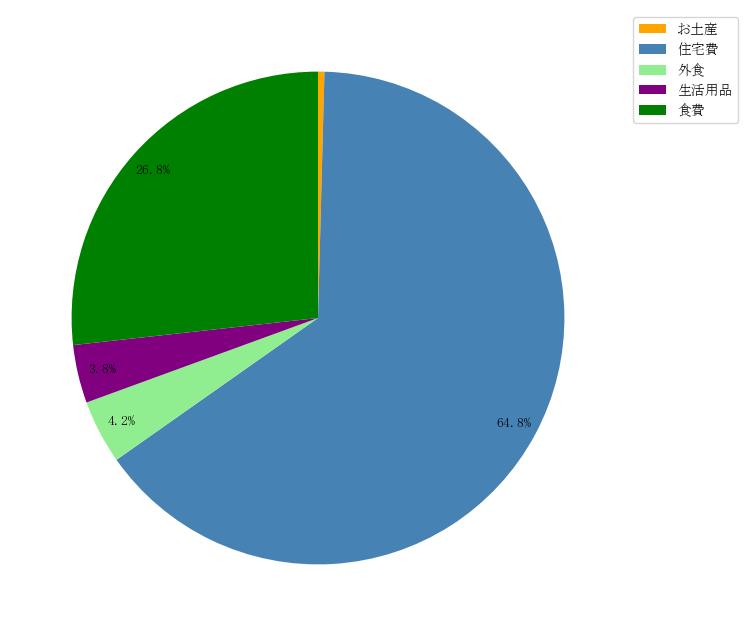
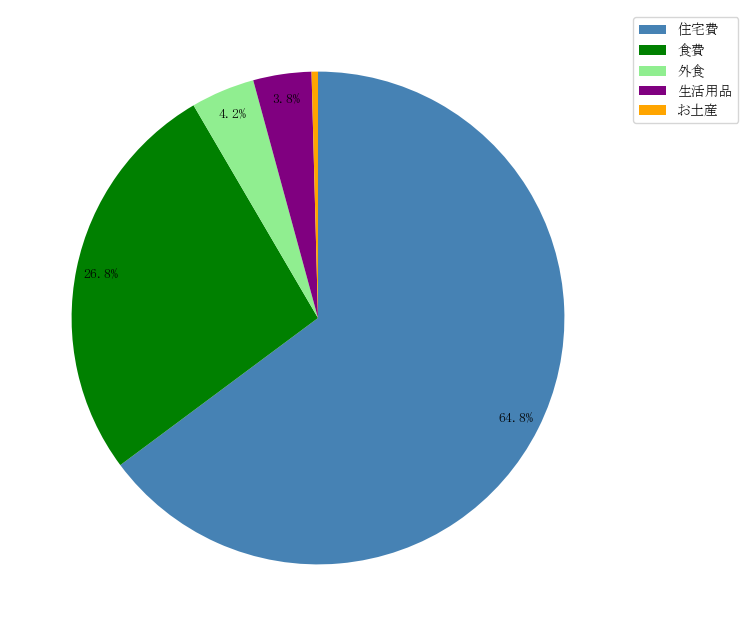
カテゴリーとユーザーのスライサーを追加

diff --git a/templates/analysis.html b/templates/analysis.html
@@ -33,14 +33,30 @@
                 </option>
                 {% endfor %}
             </select>
+            <label for="category">分類を選択：</label>
+            <select name="category" id="category" onchange="this.form.submit()">
+                {% set categories = ['all' , '食費', '外食', '生活用品', '住宅費', 'お土産', 'コインランドリー', 'レジャー'] %}
+                {% for cat in categories %}
+                <option value="{{ cat }}" {% if cat == selected_category %}selected{% endif %}>{{ cat if cat != 'all' else 'すべて' }}</option>
+                {% endfor %}
+            </select>
+            <label for="user">ユーザーを選択：</label>
+            <select name="user" id="user" onchange="this.form.submit()">
+                {% set users = ['all' , 'タクミ', 'ミナヨ'] %}
+                {% for u in users %}
+                <option value="{{ u }}" {% if u == selected_user %}selected{% endif %}>{{ u if u != 'all' else 'すべて' }}</option>
+                {% endfor %}
+            </select>
         </form>
         <div class="graph_container">
             <table border="1">
                 <tr>
-                    <th>分類別各月の支出金額</th>
-                    <th>分類別年間の支出割合</th>
+                    <th>分析方法</th>
+                    <th>月毎の支出金額推移</th>
+                    <th>年間の支出割合</th>
                 </tr>
                 <tr>
+                    <td class="analysis_label">カテゴリー別</td>
                     <td>
                         {% if graph_url %}
                             <img src="{{ graph_url }}" alt="分類別各月の支出金額">
@@ -57,15 +73,16 @@
                     </td>
                 </tr>
                 <tr>
+                    <td class="analysis_label">ユーザー別</td>
                     <td>
-                        {% if graph_url %}
+                        {% if graph_user_url %}
                             <img src="{{ graph_user_url }}" alt="分類別各月の支出金額">
                         {% else %}
                             <p>データがありません。</p>
                         {% endif %}
                     </td>
                     <td>
-                        {% if pie_chart_url %}
+                        {% if pie_user_chart_url %}
                             <img src="{{ pie_user_chart_url }}" alt="分類別年間の支出割合">
                         {% else %}
                             <p>データがありません。</p>

diff --git a/static/analysis_screen.css b/static/analysis_screen.css
@@ -1,6 +1,22 @@
+.container form {
+    margin-left: 15px;
+    font-size: 16px;
+}
+
+.container form select {
+    font-size: 20px;
+    padding: 5px;
+    border: 3px solid #333;       /* 枠線の太さと色 */
+    border-radius: 8px;           /* 角を丸く */
+}
+
 .graph_container {
     text-align: center;  /* 画像を中央に配置 */
     margin: 20px 0;
+}
+
+.graph_container table {
+    width: 100%;
 }
 
 .graph_container img {
@@ -11,4 +27,10 @@
 
 .graph_container table th {
     background-color: lightgreen;
+}
+
+.analysis_label {
+    font-size: 24px;
+    font-weight: bold;
+    writing-mode: vertical-rl; /* または vertical-lr */
 }

diff --git a/app.py b/app.py
@@ -27,6 +27,12 @@ def set_default_year():
     if "selected_year" not in session:
         session["selected_year"] = get_latest_year()  # 初期値をセット
 
+    if "selected_category" not in session:
+        session["selected_category"] = "すべて"  # カテゴリー初期値
+
+    if "selected_user" not in session:
+        session["selected_user"] = "すべて"  # ユーザー初期値
+
 # 📌 データベースの初期化（テーブル作成）
 def init_db():
     conn = sqlite3.connect(DB_FILE)
@@ -118,12 +124,22 @@ def analysis_page():
     if request.method == "POST":
         session["selected_year"] = int(request.form.get("year", session["selected_year"]))
 
-    selected_year = session["selected_year"]
+        category = request.form.get("category", session["selected_category"])
+        user = request.form.get("user", session["selected_user"])
 
-    graph_url = create_expense_graph(selected_year)  # 棒グラフを生成
-    pie_chart_url = create_pie_chart(selected_year)  # 円グラフを生成
-    graph_user_url = create_expense_user_graph(selected_year)  # 棒グラフを生成
-    pie_user_chart_url = create_pie_user_chart(selected_year)
+        # 「すべて」のときは None に変換（→ SQL で絞り込みしない）
+        session["selected_category"] = None if category == "all" else category
+        session["selected_user"] = None if user == "all" else user
+
+    # セッションから値を取得（初回アクセスにも備えてデフォルト値を設定）
+    selected_year = session.get("selected_year", session["selected_year"])
+    selected_category = session.get("selected_category", "all")
+    selected_user = session.get("selected_user", "all")
+
+    graph_url = create_expense_graph(selected_year, selected_category, selected_user)  # 棒グラフを生成
+    pie_chart_url = create_pie_chart(selected_year, selected_category, selected_user)  # 円グラフを生成
+    graph_user_url = create_expense_user_graph(selected_year, selected_category, selected_user)  # 棒グラフを生成
+    pie_user_chart_url = create_pie_user_chart(selected_year, selected_category, selected_user)
     
     # データベースからユニークな年のリストを取得
     conn = sqlite3.connect(DB_FILE)
@@ -132,7 +148,17 @@ def analysis_page():
     years = [row[0] for row in cursor.fetchall()]
     conn.close()
     
-    return render_template("analysis.html", graph_url=graph_url, pie_chart_url=pie_chart_url, graph_user_url=graph_user_url, pie_user_chart_url=pie_user_chart_url, years=years, selected_year=selected_year)
+    return render_template(
+        "analysis.html",
+        graph_url=graph_url,
+        pie_chart_url=pie_chart_url,
+        graph_user_url=graph_user_url,
+        pie_user_chart_url=pie_user_chart_url,
+        years=years,
+        selected_year=selected_year,
+        selected_category=selected_category,
+        selected_user=selected_user
+    )
 
 
 # 📌 データを登録するAPI
@@ -217,7 +243,7 @@ def get_data():
     return jsonify(expenses)
 
 # 📌 グラフを作成する関数（カテゴリーごとの月別支出額）
-def create_expense_graph(year):
+def create_expense_graph(year, category=None, user=None):
     # 🔹 日本語フォントの設定
     font_path = "/usr/share/fonts/opentype/ipafont-mincho/ipam.ttf"
     if not os.path.exists(font_path):
@@ -233,14 +259,28 @@ def create_expense_graph(year):
     conn = sqlite3.connect(DB_FILE)
     cursor = conn.cursor()
 
-    # 各月ごとのカテゴリー別支出額を取得
-    cursor.execute("""
-        SELECT month, category, SUM(amount) 
-        FROM expenses 
+    # 🔹 SQLクエリ作成（動的にフィルターを追加）
+    base_query = """
+        SELECT month, category, SUM(amount)
+        FROM expenses
         WHERE year = ?
+    """
+    params = [year]
+
+    if category:
+        base_query += " AND category = ?"
+        params.append(category)
+
+    if user:
+        base_query += " AND user = ?"
+        params.append(user)
+
+    base_query += """
         GROUP BY month, category
         ORDER BY month ASC
-    """,(year,))
+    """
+
+    cursor.execute(base_query, tuple(params))
     data = cursor.fetchall()
     conn.close()
 
@@ -297,17 +337,32 @@ def create_expense_graph(year):
 
 
 # 📌 カテゴリーごとの年間支出割合の円グラフを作成
-def create_pie_chart(year):
+def create_pie_chart(year, category=None, user=None):
     conn = sqlite3.connect(DB_FILE)
     cursor = conn.cursor()
 
-    # 年間のカテゴリー別支出合計を取得
-    cursor.execute("""
-        SELECT category, SUM(amount) 
-        FROM expenses 
+    # 🔹 SQLクエリ作成（動的にフィルターを追加）
+    base_query = """
+        SELECT category, SUM(amount)
+        FROM expenses
         WHERE year = ?
-        GROUP BY category
-    """,(year,))
+    """
+    params = [year]
+
+    if category:
+        base_query += " AND category = ?"
+        params.append(category)
+
+    if user:
+        base_query += " AND user = ?"
+        params.append(user)
+
+    base_query += """
+        GROUP BY  category
+        ORDER BY SUM(amount) DESC
+    """
+
+    cursor.execute(base_query, tuple(params))
     data = cursor.fetchall()
     conn.close()
 
@@ -373,7 +428,7 @@ def create_pie_chart(year):
     return "/static/expense_pie_chart.png"
 
 # 📌 グラフを作成する関数（ユーザーごとの月別支出額）
-def create_expense_user_graph(year):
+def create_expense_user_graph(year, category=None, user=None):
     # 🔹 日本語フォントの設定
     font_path = "/usr/share/fonts/opentype/ipafont-mincho/ipam.ttf"
     if not os.path.exists(font_path):
@@ -389,14 +444,28 @@ def create_expense_user_graph(year):
     conn = sqlite3.connect(DB_FILE)
     cursor = conn.cursor()
 
-    # 各月ごとのカテゴリー別支出額を取得
-    cursor.execute("""
-        SELECT month, user, SUM(amount) 
-        FROM expenses 
+    # 🔹 SQLクエリ作成（動的にフィルターを追加）
+    base_query = """
+        SELECT month, user, SUM(amount)
+        FROM expenses
         WHERE year = ?
+    """
+    params = [year]
+
+    if category:
+        base_query += " AND category = ?"
+        params.append(category)
+
+    if user:
+        base_query += " AND user = ?"
+        params.append(user)
+
+    base_query += """
         GROUP BY month, user
         ORDER BY month ASC
-    """,(year,))
+    """
+
+    cursor.execute(base_query, tuple(params))
     data = cursor.fetchall()
     conn.close()
 
@@ -407,7 +476,7 @@ def create_expense_user_graph(year):
     months = sorted(set(row[0] for row in data))  # 月のリスト
     users = sorted(set(row[1] for row in data))  # ユーザーのリスト
 
-    user_data = {cat: [0] * len(months) for cat in users}
+    user_data = {user: [0] * len(months) for user in users}
     total_by_month = [0] * len(months)  # 月ごとの合計額を格納
 
     for month, user, amount in data:
@@ -448,17 +517,32 @@ def create_expense_user_graph(year):
 
 
 # 📌 カテゴリーごとの年間支出割合の円グラフを作成
-def create_pie_user_chart(year):
+def create_pie_user_chart(year, category=None, user=None):
     conn = sqlite3.connect(DB_FILE)
     cursor = conn.cursor()
 
-    # 年間のカテゴリー別支出合計を取得
-    cursor.execute("""
-        SELECT user, SUM(amount) 
-        FROM expenses 
+    # 🔹 SQLクエリ作成（動的にフィルターを追加）
+    base_query = """
+        SELECT user, SUM(amount)
+        FROM expenses
         WHERE year = ?
+    """
+    params = [year]
+
+    if category:
+        base_query += " AND category = ?"
+        params.append(category)
+
+    if user:
+        base_query += " AND user = ?"
+        params.append(user)
+
+    base_query += """
         GROUP BY user
-    """,(year,))
+        ORDER BY SUM(amount) DESC
+    """
+
+    cursor.execute(base_query, tuple(params))
     data = cursor.fetchall()
     conn.close()
 
